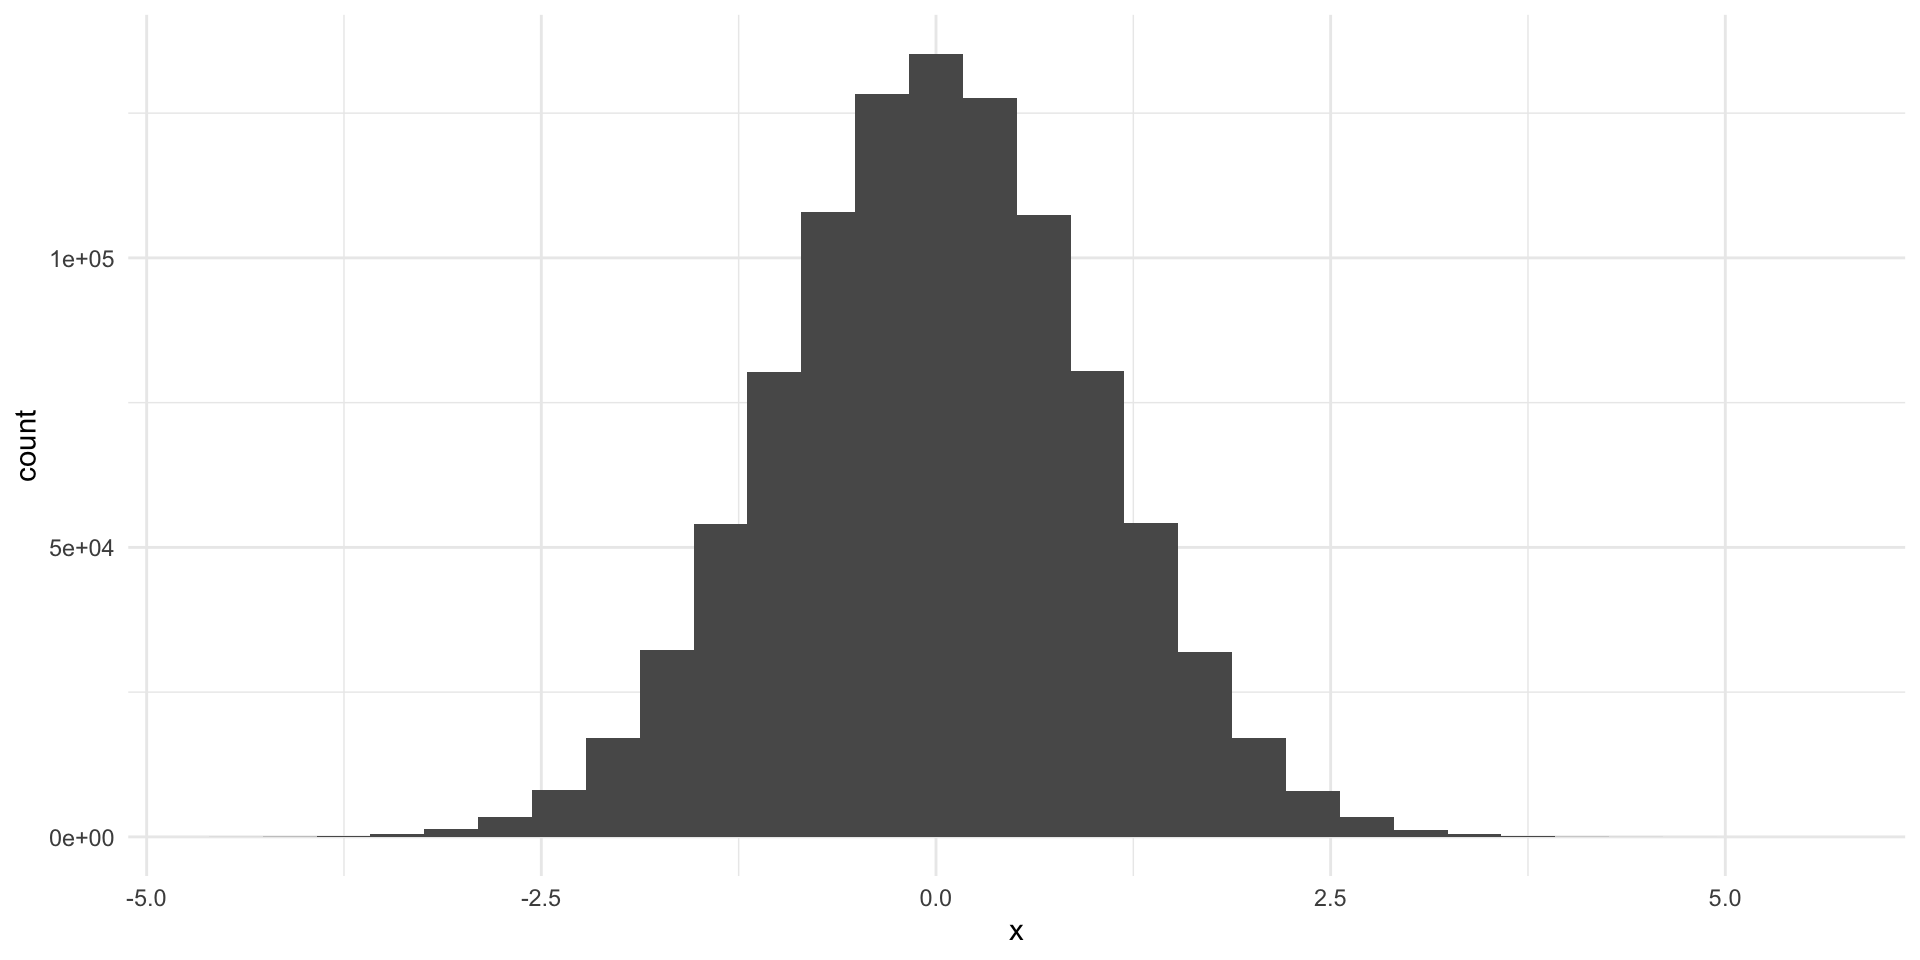
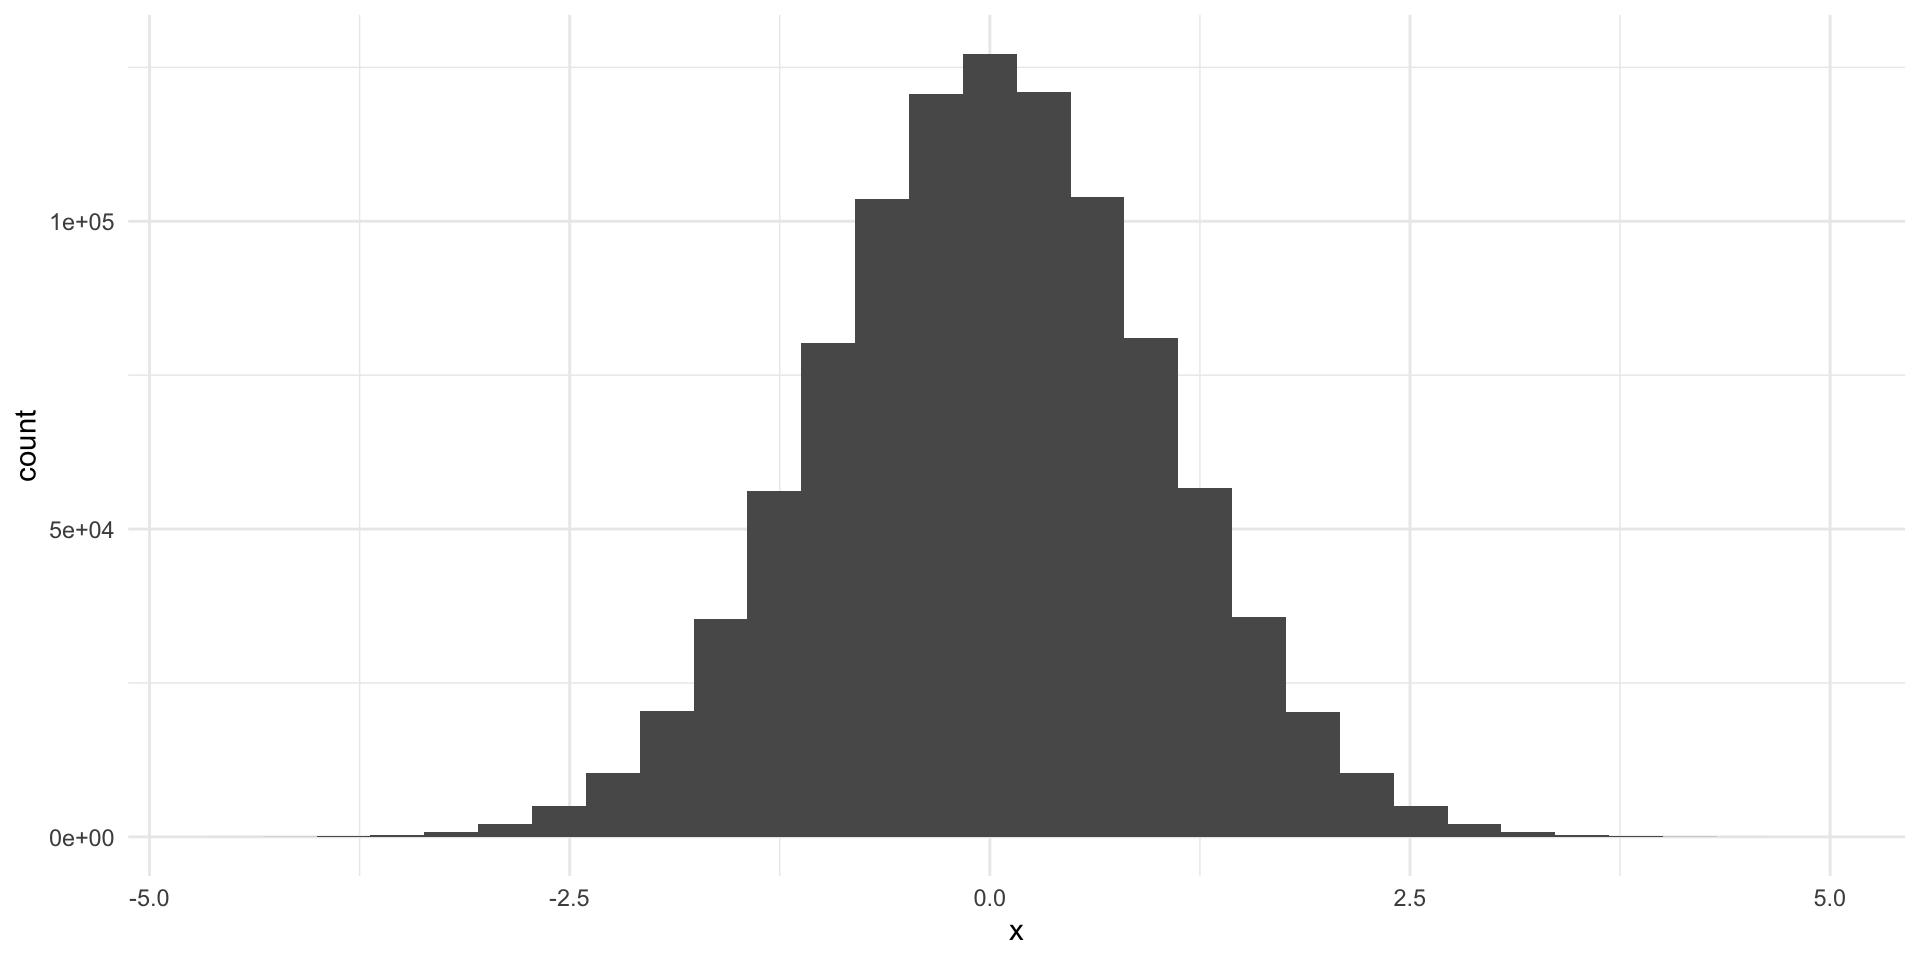
Update description in descriptive stats

diff --git a/docs/content/02-descriptive_statistics.html b/docs/content/02-descriptive_statistics.html
@@ -334,8 +334,9 @@ code span.wa { color: #60a0b0; font-weight: bold; font-style: italic; } /* Warni
 <h3 class="anchored" data-anchor-id="how-will-what-you-learn-this-week-help-your-research">How will what you learn this week help your research?</h3>
 <p>You have an interesting question that you want to explore. You have some data that relate to that question, including those that describe the outcome in which you are interested and the things that you think determine or drive that outcome. You think that one (or more) of the drivers is particularly important, but no one has yet written about it or proven its importance. Brilliant! What do you do now?</p>
 <p>The first step in any empirical analysis is getting to know your data. I mean, <em>really</em> getting to know your data. You want to dig into it with a critical eye. You want to understand any patterns lurking beneath the surface.</p>
-<p>Ultimately, you want to get a really good understanding of the <strong>data generation process</strong>. This has two parts. First, you want to understand how, out there in the real world, your outcome and drivers come to be. For example, if you are interested in political voting patterns, you want to know the nitty gritty process of how people actually vote. Do they have to travel long distances, stand in long queues, fill out a lot of paperwork? Are there age restrictions on their ability to vote? Are there more insidious restrictions that might suppress voting for one particular group in the electorate? To answer these questions, you can use those patterns and summaries descibed above. Are there relatively few young voters compared to older voters? Why might that be? In turn, your growing expertise in and understanding of the data generation process should inform your exploration of the data. You might note that people have to wait in long queues on a Tuesday to vote. Does this impact the number of workers vs.&nbsp;retirees who vote?</p>
-<p>Now, this is made slightly more tricky by the second part of your exploration of the data generation process. You need to understand how your variables are actually measured. How do we know who turns out to vote? Did you get access to the voter file, which records each individual who voted and some interesting and potentially relevant demographic information about them? Or are you relying on exit polls, that only include a portion of those who voted? Were the people included in the polls reflective of the total voting population? What or whom is missing from this survey? Of course, if your sample is not representative, you might find some patterns that appear to be very important to your outcome of interest but are, in fact, just an artifact of a poorly drawn sample.</p>
+<p>Ultimately, you want to get a really good understanding of the <strong>data generation process</strong>. This has two parts. First, you want to understand how, out there in the real world, your outcome and drivers come to be. For example, if you are interested in political voting patterns, you want to know the nitty gritty process of how people actually vote. Do they have to travel long distances, stand in long queues, fill out a lot of paperwork? Are there age restrictions on their ability to vote? Are there more insidious restrictions that might suppress voting for one particular group in the electorate?</p>
+<p>To answer these questions, you can use the skills we will discuss this week. Are there relatively few young voters compared to older voters? Why might that be? In turn, your growing expertise in and understanding of the data generation process should inform your exploration of the data. You might note that people have to wait in long queues on a Tuesday to vote. Does this impact the number of workers vs.&nbsp;retirees who vote?</p>
+<p>Now, this is made slightly more tricky by the second part of your exploration. You need to understand how your variables are actually measured. How do we know who turns out to vote? Did you get access to the voter file, which records each individual who voted and some interesting and potentially relevant demographic information about them? Or are you relying on exit polls, that only include a portion of those who voted? Were the people included in the polls reflective of the total voting population? What or whom is missing from this survey? Of course, if your sample is not representative, you might find some patterns that appear to be very important to your outcome of interest but are, in fact, just an artifact of a poorly drawn sample.</p>
 <p>This week you will be introduced to the first part of this process: data exploration. We use descriptive statistics to <em>describe patterns in our data</em>. These are incredibly powerful tools that will arm you with an intimate knowledge of the shape of your factors of interest. With this knowledge, you will be able to start to answer your important question and potentially identify new ones. You will also be able to sense-check your more complex models and pick up on odd or incorrect relationships that they may find.</p>
 <p>As you make frequency tables and histograms and very elaborate dot plots and box charts, keep in mind that these are tools useful for your interrogation of the data generation process. <em>Be critical.</em> Continue to ask whether your data allow you to detect true relationships between your variables of interest. Build your intuition for what is really going on and what factors are really driving your outcome of interest.</p>
 <p>Let’s get started.</p>
@@ -825,18 +826,18 @@ s^2 = \frac{\Sigma(x_i - \bar{x})^2}{n - 1}
 <span id="cb27-8"><a href="#cb27-8" aria-hidden="true" tabindex="-1"></a>wide_var_calc</span></code><button title="Copy to Clipboard" class="code-copy-button"><i class="bi"></i></button></pre></div>
 <div class="cell-output cell-output-stdout">
 <pre><code># A tibble: 1,000,000 × 4
-        x    mean   diff diff_2
-    &lt;dbl&gt;   &lt;dbl&gt;  &lt;dbl&gt;  &lt;dbl&gt;
- 1 -0.495 0.00244 -0.497  0.247
- 2 -0.848 0.00244 -0.851  0.724
- 3  0.586 0.00244  0.583  0.340
- 4 -0.673 0.00244 -0.676  0.456
- 5  3.98  0.00244  3.97  15.8  
- 6  0.964 0.00244  0.962  0.926
- 7  0.503 0.00244  0.501  0.251
- 8  1.51  0.00244  1.51   2.28 
- 9  3.29  0.00244  3.29  10.8  
-10  3.56  0.00244  3.56  12.7  
+         x    mean    diff    diff_2
+     &lt;dbl&gt;   &lt;dbl&gt;   &lt;dbl&gt;     &lt;dbl&gt;
+ 1  0.383  0.00153  0.381   0.145   
+ 2  0.0873 0.00153  0.0858  0.00736 
+ 3 -0.353  0.00153 -0.355   0.126   
+ 4  3.33   0.00153  3.33   11.1     
+ 5 -0.0193 0.00153 -0.0209  0.000435
+ 6 -1.30   0.00153 -1.30    1.70    
+ 7 -2.55   0.00153 -2.55    6.49    
+ 8 -1.49   0.00153 -1.49    2.22    
+ 9  1.31   0.00153  1.31    1.71    
+10  3.92   0.00153  3.92   15.4     
 # ℹ 999,990 more rows</code></pre>
 </div>
 </div>
@@ -846,7 +847,7 @@ s^2 = \frac{\Sigma(x_i - \bar{x})^2}{n - 1}
 <span id="cb29-2"><a href="#cb29-2" aria-hidden="true" tabindex="-1"></a></span>
 <span id="cb29-3"><a href="#cb29-3" aria-hidden="true" tabindex="-1"></a>wide_var</span></code><button title="Copy to Clipboard" class="code-copy-button"><i class="bi"></i></button></pre></div>
 <div class="cell-output cell-output-stdout">
-<pre><code>[1] 3.993792</code></pre>
+<pre><code>[1] 4.004449</code></pre>
 </div>
 </div>
 <p>We can compare this to the variance for our narrower distribution.</p>
@@ -862,7 +863,7 @@ s^2 = \frac{\Sigma(x_i - \bar{x})^2}{n - 1}
 <span id="cb31-9"><a href="#cb31-9" aria-hidden="true" tabindex="-1"></a></span>
 <span id="cb31-10"><a href="#cb31-10" aria-hidden="true" tabindex="-1"></a>narrow_var</span></code><button title="Copy to Clipboard" class="code-copy-button"><i class="bi"></i></button></pre></div>
 <div class="cell-output cell-output-stdout">
-<pre><code>[1] 0.9989206</code></pre>
+<pre><code>[1] 1.001083</code></pre>
 </div>
 </div>
 <p>It is, in fact, smaller!</p>
@@ -871,14 +872,14 @@ s^2 = \frac{\Sigma(x_i - \bar{x})^2}{n - 1}
 <div class="sourceCode cell-code" id="cb33"><pre class="sourceCode r code-with-copy"><code class="sourceCode r"><span id="cb33-1"><a href="#cb33-1" aria-hidden="true" tabindex="-1"></a><span class="fu">var</span>(wide_dist)</span></code><button title="Copy to Clipboard" class="code-copy-button"><i class="bi"></i></button></pre></div>
 <div class="cell-output cell-output-stdout">
 <pre><code>         x
-x 3.993792</code></pre>
+x 4.004449</code></pre>
 </div>
 </div>
 <div class="cell">
 <div class="sourceCode cell-code" id="cb35"><pre class="sourceCode r code-with-copy"><code class="sourceCode r"><span id="cb35-1"><a href="#cb35-1" aria-hidden="true" tabindex="-1"></a><span class="fu">var</span>(narrow_dist)</span></code><button title="Copy to Clipboard" class="code-copy-button"><i class="bi"></i></button></pre></div>
 <div class="cell-output cell-output-stdout">
-<pre><code>          x
-x 0.9989206</code></pre>
+<pre><code>         x
+x 1.001083</code></pre>
 </div>
 </div>
 <div class="cell">
@@ -895,26 +896,26 @@ x TRUE</code></pre>
 <div class="cell">
 <div class="sourceCode cell-code" id="cb39"><pre class="sourceCode r code-with-copy"><code class="sourceCode r"><span id="cb39-1"><a href="#cb39-1" aria-hidden="true" tabindex="-1"></a><span class="fu">sqrt</span>(wide_var)</span></code><button title="Copy to Clipboard" class="code-copy-button"><i class="bi"></i></button></pre></div>
 <div class="cell-output cell-output-stdout">
-<pre><code>[1] 1.998447</code></pre>
+<pre><code>[1] 2.001112</code></pre>
 </div>
 </div>
 <div class="cell">
 <div class="sourceCode cell-code" id="cb41"><pre class="sourceCode r code-with-copy"><code class="sourceCode r"><span id="cb41-1"><a href="#cb41-1" aria-hidden="true" tabindex="-1"></a><span class="fu">sqrt</span>(narrow_var)</span></code><button title="Copy to Clipboard" class="code-copy-button"><i class="bi"></i></button></pre></div>
 <div class="cell-output cell-output-stdout">
-<pre><code>[1] 0.9994602</code></pre>
+<pre><code>[1] 1.000541</code></pre>
 </div>
 </div>
 <p>You can get this directly using <code>sd()</code>:</p>
 <div class="cell">
 <div class="sourceCode cell-code" id="cb43"><pre class="sourceCode r code-with-copy"><code class="sourceCode r"><span id="cb43-1"><a href="#cb43-1" aria-hidden="true" tabindex="-1"></a><span class="fu">sd</span>(wide_dist<span class="sc">$</span>x)</span></code><button title="Copy to Clipboard" class="code-copy-button"><i class="bi"></i></button></pre></div>
 <div class="cell-output cell-output-stdout">
-<pre><code>[1] 1.998447</code></pre>
+<pre><code>[1] 2.001112</code></pre>
 </div>
 </div>
 <div class="cell">
 <div class="sourceCode cell-code" id="cb45"><pre class="sourceCode r code-with-copy"><code class="sourceCode r"><span id="cb45-1"><a href="#cb45-1" aria-hidden="true" tabindex="-1"></a><span class="fu">sd</span>(narrow_dist<span class="sc">$</span>x)</span></code><button title="Copy to Clipboard" class="code-copy-button"><i class="bi"></i></button></pre></div>
 <div class="cell-output cell-output-stdout">
-<pre><code>[1] 0.9994602</code></pre>
+<pre><code>[1] 1.000541</code></pre>
 </div>
 </div>
 <p>If you look back to our graphs, you will see that I set the standard deviations explicitly when I generated the data: <code>rnorm()</code> takes an <code>sd</code> argument. This is great because we can confirm that the standard deviations for the wide and narrow distributions are 2 and 1 respectively (with a little bit of noise).</p>
@@ -980,12 +981,12 @@ z_i = \frac{x_i - \mu_x}{\sigma_x}
 <pre><code># A tibble: 6 × 4
       x  mean    sd z_score
   &lt;dbl&gt; &lt;dbl&gt; &lt;dbl&gt;   &lt;dbl&gt;
-1  6.78  5.00  2.00   0.891
-2  6.30  5.00  2.00   0.648
-3  7.69  5.00  2.00   1.35 
-4  2.01  5.00  2.00  -1.50 
-5  5.58  5.00  2.00   0.290
-6  4.26  5.00  2.00  -0.373</code></pre>
+1  5.98  5.00  2.00  0.490 
+2  5.04  5.00  2.00  0.0194
+3  3.29  5.00  2.00 -0.855 
+4  4.50  5.00  2.00 -0.250 
+5  2.20  5.00  2.00 -1.40  
+6  5.23  5.00  2.00  0.112 </code></pre>
 </div>
 </div>
 <p>We can confirm this:</p>
